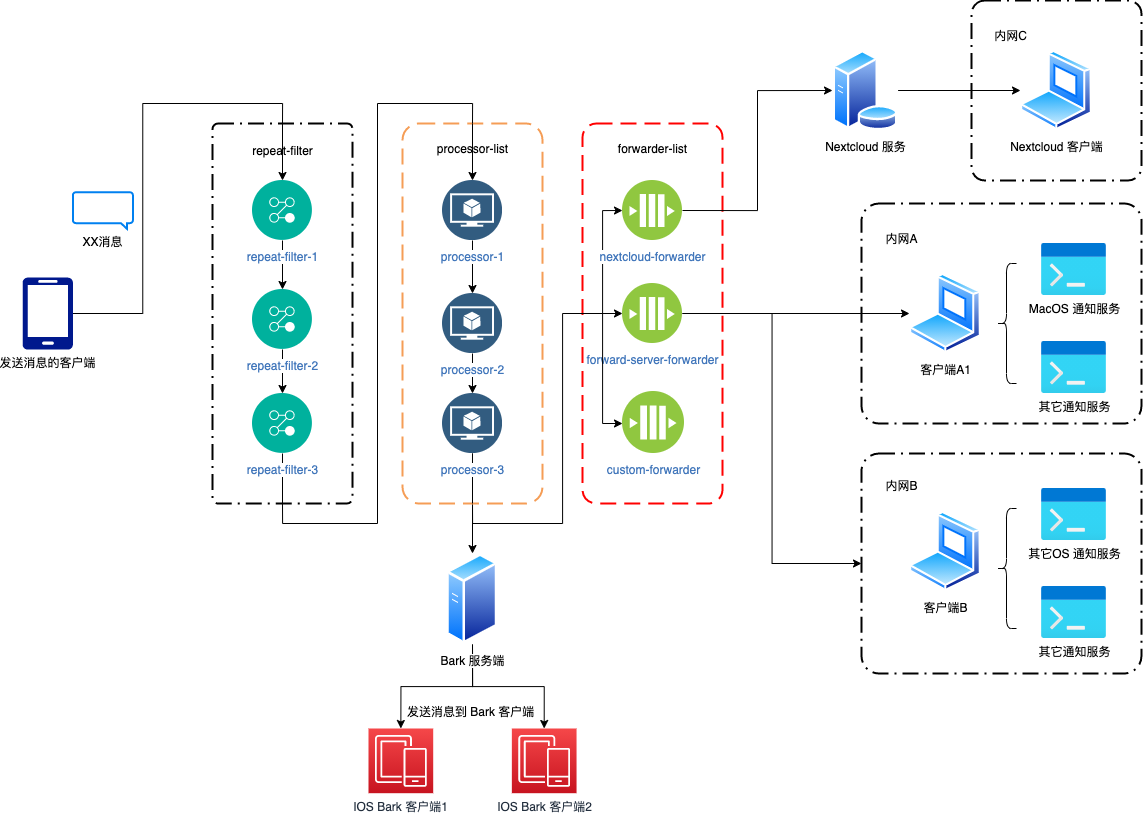
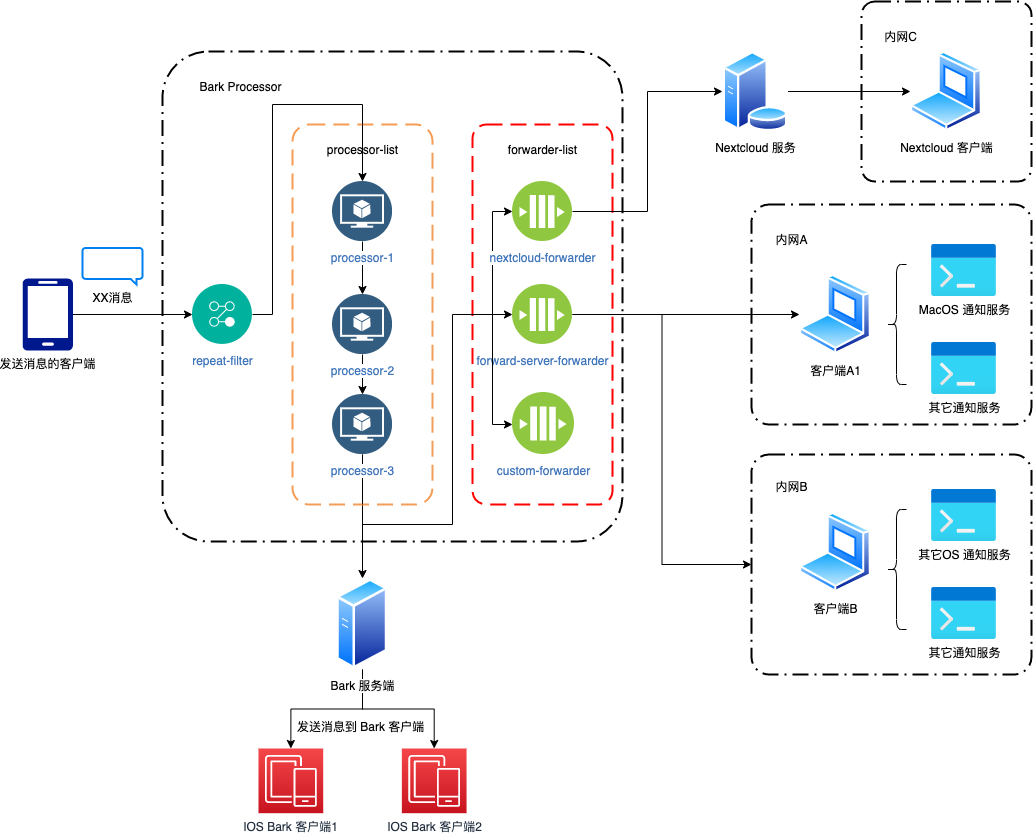
更新说明文档

diff --git a/README.md b/README.md
@@ -70,6 +70,12 @@ mvn install
 
 ## 2.4 系统处理流程图
 
+- 消息提交到服务器后，先经过 repeat-filter 处理，如果重复了则该消息不会继续发送。
+- 消息经过 processor-list 里的 processor 处理，改变原始信息内容。
+- 消息处理完成后：
+  - 发送给 Bark 服务端，经由 Bark 服务端分发到 Bark 客户端。
+  - 分发给 forwarder-list 里的 forwarder，将信息分发出去。
+
 ![系统处理流程图](https://cdn.jsdelivr.net/gh/Orainge/bark-processor@master/pic/pic2.png)
 
 
